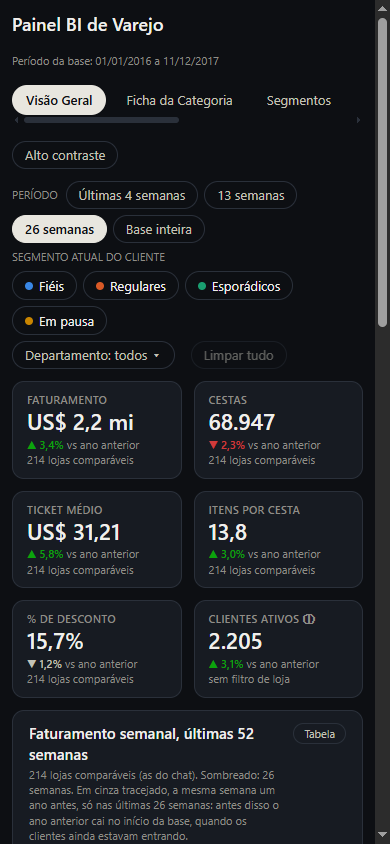
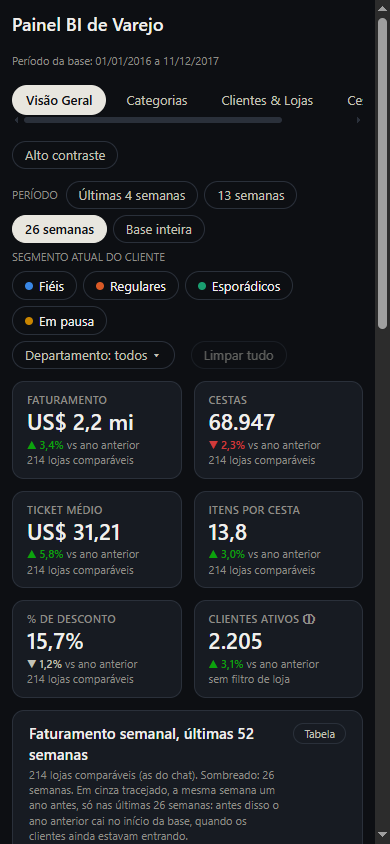
docs: redesenho v3, V6 (README com as 4 abas e a pagina de metodologia, capturas novas)

Changed region(s): [[0.3385, 0.0924, 0.8308, 0.154], [0.8923, 0.0924, 0.9231, 0.1232]]

diff --git a/README.md b/README.md
@@ -2,8 +2,8 @@
 
 **Abrir o painel:** https://caiosantosho2-dotcom.github.io/retail-bi-dashboard/
 
-Painel de BI em uma página web, tema escuro, com abas: saúde do varejo, categorias (departamentos) e segmentos de
-clientes, com filtros globais e clique que filtra, como no Power BI. É a continuação visual do projeto "Assistente
+Painel de BI em uma página web, tema escuro, com 4 abas (Visão Geral, Categorias, Clientes & Lojas e Cestas & Marcas)
+e uma página de metodologia, com filtros globais e clique que filtra, como no Power BI. É a continuação visual do projeto "Assistente
 Comercial + Análise de Clientes" (projeto de RAG): painel e chat usam as mesmas definições e dão o mesmo número para a
 mesma pergunta. As regras estão em [`docs/spec_dashboard.md`](docs/spec_dashboard.md).
 
@@ -13,27 +13,23 @@ mesma pergunta. As regras estão em [`docs/spec_dashboard.md`](docs/spec_dashboa
 
 | Aba | Para quem | O que mostra |
 |---|---|---|
-| **Visão Geral** | diretoria e gerência | 6 KPIs com a variação contra o ano anterior nas lojas comparáveis (*like-for-like*), faturamento semanal das últimas 52 semanas com o período sombreado, mapa de calor dia × hora, departamentos (o clique filtra o painel) e as 3 conclusões das análises do chat |
-| **Ficha da Categoria** | comercial e category management | cada departamento num radar de 6 atributos em percentil (participação, crescimento, penetração, frequência, desconto, marca própria) com os valores reais, quem compra, top 10 subcategorias, o que vai junto na cesta (*lift*), dinheiro em risco e a comparação dos segmentos selecionados com todos os clientes |
-| **Segmentos** | CRM e marketing | Fiéis, Regulares, Esporádicos e Em pausa: a Roda (que alterna com a **matriz de migração**: de qual segmento cada cliente veio no semestre anterior), a matriz de afinidade segmento × departamento, a evolução semanal e a **lista de ação** de clientes em risco de pausa, com "Baixar CSV" para a campanha de reativação |
-| **Lojas** | operações e regionais | um "mapa de clientela" (a base não tem endereço das lojas: as regiões são inferidas pelos clientes em comum e o painel avisa que não é geografia), o mapa de calor região × semana, o ranking de crescimento nas lojas comparáveis e a ficha da loja com a árvore de vendas (clientes × idas × ticket) e o mix de segmentos e departamentos |
-| **Produtos** | comercial e category management | a curva ABC das subcategorias, marca própria e concentração de fornecedores por departamento, e a rede de cestas das 80 maiores subcategorias com os pares que cada segmento compra junto bem mais que a média |
-| **Laboratório** | quem quer ver o rigor | a curva ROC do modelo de risco de pausa contra a regra simples, a matriz de confusão, o CLV por segmento com o backtest e o teste de desconto entre segmentos (significativo, mas pequeno demais para importar) |
+| **Visão Geral** | diretoria e gerência | 6 KPIs com a variação contra o ano anterior nas lojas comparáveis (*like-for-like*), faturamento semanal das últimas 52 semanas com o período sombreado, faturamento por segmento, departamentos com o traço do ano anterior e **o que puxou a variação** (a contribuição de cada departamento) |
+| **Categorias** | comercial e category management | "Todos os departamentos" ou a ficha de um: faturamento, variação, clientes e quem compra por segmento, o faturamento semanal, **o que se compra junto** (pares de subcategorias em frases: "Quem compra A também leva B em X% das vezes"), o perfil contra os outros departamentos, as 10 maiores subcategorias e o dinheiro em risco |
+| **Clientes & Lojas** | CRM, marketing e operações | os 4 segmentos (Fiéis, Regulares, Esporádicos, Em pausa) com a Roda e a **matriz de migração**, as regiões e quem compra em cada uma (inferidas pela clientela em comum: o painel avisa que não é geografia), o perfil das lojas, o ranking por faturamento, ticket, valor em risco ou crescimento, e a **ficha da loja** ao lado, com a lista dos clientes em risco e "Baixar CSV" |
+| **Cestas & Marcas** | comercial e category management | quantas subcategorias fazem 80% do faturamento, a **rede de cestas** das 80 maiores subcategorias (clicar num nó mostra com o que ele vai junto), os pares que cada segmento compra junto bem mais que a média, e a marca própria e a concentração de fornecedores por departamento |
+| **Metodologia e validação** (link no rodapé) | quem quer ver o rigor | a curva ROC do modelo de risco de pausa contra a regra simples, a matriz de confusão, o CLV por segmento com o backtest e o teste de desconto entre segmentos |
 
-Filtros globais de período, segmento e departamento valem em todas as abas onde fazem sentido. Clicar numa barra,
-célula ou fatia filtra o painel; Ctrl + clique soma; o segundo clique limpa.
+Os filtros de período (4, 13 e 26 semanas ou a base inteira), segmento e departamento valem em todas as abas onde fazem
+sentido; quando um não se aplica, a aba diz por quê. A seleção funciona igual em todo gráfico: clicar filtra, clicar de
+novo desfaz, Ctrl + clique soma, e Esc ou um clique no fundo vazio limpa.
 
-| Ficha da Categoria | Segmentos |
+| Categorias | Clientes & Lojas |
 |---|---|
-| ![Ficha da Categoria](docs/capturas/ficha_categoria.png) | ![Segmentos](docs/capturas/segmentos.png) |
+| ![Categorias](docs/capturas/categorias.png) | ![Clientes & Lojas](docs/capturas/clientes_lojas.png) |
 
-| Lojas (mapa de clientela) | Produtos (rede de cestas) |
+| Cestas & Marcas | Metodologia e validação |
 |---|---|
-| ![Lojas](docs/capturas/lojas.png) | ![Produtos](docs/capturas/produtos.png) |
-
-| Laboratório (modelos do RAG) | Segmentos (matriz de migração) |
-|---|---|
-| ![Laboratório](docs/capturas/laboratorio.png) | ![Migração](docs/capturas/migracao.png) |
+| ![Cestas & Marcas](docs/capturas/cestas_marcas.png) | ![Metodologia](docs/capturas/metodologia.png) |
 
 ![Celular](docs/capturas/celular.png)
 
@@ -44,10 +40,13 @@ Nenhum número é escrito à mão nem recalculado no navegador além de somas do
 - **Uma definição por métrica:** os números vêm das views do DuckDB do projeto de RAG; segmento e risco de pausa, do
   próprio código Python dele, importado só para leitura. Métricas novas do painel ficam em
   [`scripts/sql/views_painel.sql`](scripts/sql/views_painel.sql), cada uma com a definição e o grão.
-- **Reconciliação:** [`scripts/reconciliar.py`](scripts/reconciliar.py) confere 569 números dos JSONs com SQL
-  independente, direto na tabela fato e nas views do RAG (KPIs, cubos, 3 departamentos e 10 pares de cesta sorteados,
-  afinidade, lista de ação, as 214 lojas comparáveis contra `vw_yoy_loja`, as regiões, a curva ABC, as marcas, a rede de cestas, a curva ROC, o CLV e o teste de desconto) e contra o que o app de RAG mostra: Fiéis = 35% dos clientes e 71% do faturamento, AUC 0,85
+- **Reconciliação:** [`scripts/reconciliar.py`](scripts/reconciliar.py) confere 988 números dos JSONs com SQL
+  independente, direto na tabela fato e nas views do RAG, em cada período (KPIs, cubos, departamentos e pares de
+  subcategoria, lista de ação, as lojas comparáveis contra `vw_yoy_loja`, as regiões, o perfil e o ranking das lojas, a
+  concentração, as marcas, a rede de cestas, a curva ROC, o CLV e o teste de desconto) e contra o que o app de RAG mostra: Fiéis = 35% dos clientes e 71% do faturamento, AUC 0,85
   contra 0,74 da regra simples, 136 clientes em risco. Um teste de mutação mostra que ela pega erros plantados.
+- **Seleção:** os 4 gestos (clique, clique de novo, Ctrl + clique, Esc) são testados por clique real do mouse em todos os
+  gráficos clicáveis ([`tests/gestos.js`](tests/gestos.js)).
 - **Contrato de dados:** cada JSON tem schema em [`contracts/`](contracts/), grão declarado e hash no `manifest.json`.
 - **Tela:** cada fase foi aberta no navegador (Playwright) em 1440×900 e 390×844, com os critérios de aceite da spec
   conferidos um a um. Os relatórios ficam em [`docs/validacao/`](docs/validacao/).
@@ -83,16 +82,17 @@ A exportação e a reconciliação nunca escrevem no projeto de RAG: o banco abr
 `__pycache__`, só são chamadas funções que não gravam log, e uma "foto" de todos os arquivos do RAG, tirada antes e
 depois, interrompe a execução se algo mudar. O `manifest.json` registra o commit do RAG usado (`rag_commit`).
 
-A exportação roda em etapas (`rag`, `base`, `cubos`, `kpis_filtrados`, `cesta_departamentos`, `cesta_subcategorias`,
-`ficha_categoria`, `segmentos`, `manifest`), cada uma num processo novo, com o DuckDB limitado pelo `config.yaml`
-(`memoria`: 1 GB e 2 threads). O pico medido é de cerca de 200 MB por etapa, e o total leva um minuto. Os resultados
+A exportação roda em etapas (`rag`, `base`, `cubos`, `kpis_filtrados`, `cesta_subcategorias`, `ficha_categoria`,
+`segmentos`, `lojas`, `produtos`, `laboratorio`, `manifest`), cada uma num processo novo, com o DuckDB limitado pelo
+`config.yaml` (`memoria`: 1 GB e 2 threads). O total leva cerca de 2 minutos. Os arquivos que dependem do período saem
+um por período (`<nome>_4s.json`, `_13s`, `_26s`, `_base`) e são carregados só quando a aba e o período são abertos. Os resultados
 intermediários ficam em `data/tmp/` (fora do git). `--etapa <nome>` roda uma só.
 
 ## O que a base não tem
 
 - **Encarte e ponta de gôndola** (`causal_data`): existem na base, mas ficam para uma fase futura.
 - **Share de gôndola e ruptura:** não existem na base Dunnhumby. O painel não mostra nem estima esses indicadores.
-- **Calendário real:** as datas são inventadas, então os dias da semana aparecem como "Dia 1 … Dia 7".
+- **Calendário real:** as datas são inventadas, então o painel não mostra dia da semana, feriados nem sazonalidade de calendário.
 
 ## Dados
 
@@ -101,5 +101,6 @@ compras. Os IDs de cliente da lista de ação são os pseudônimos da própria b
 
 ## Estado
 
-Todas as abas da spec, do MVP e da P2, estão no ar. Fase futura, fora do escopo atual: os dados de encarte e ponta de
+Redesenho v3 no ar (contrato de dados 3.0): 4 abas e a página de metodologia. O que mudou e as decisões estão em
+[`docs/mudancas/resumo_v3.md`](docs/mudancas/resumo_v3.md). Fase futura, fora do escopo atual: os dados de encarte e ponta de
 gôndola (`causal_data`).
